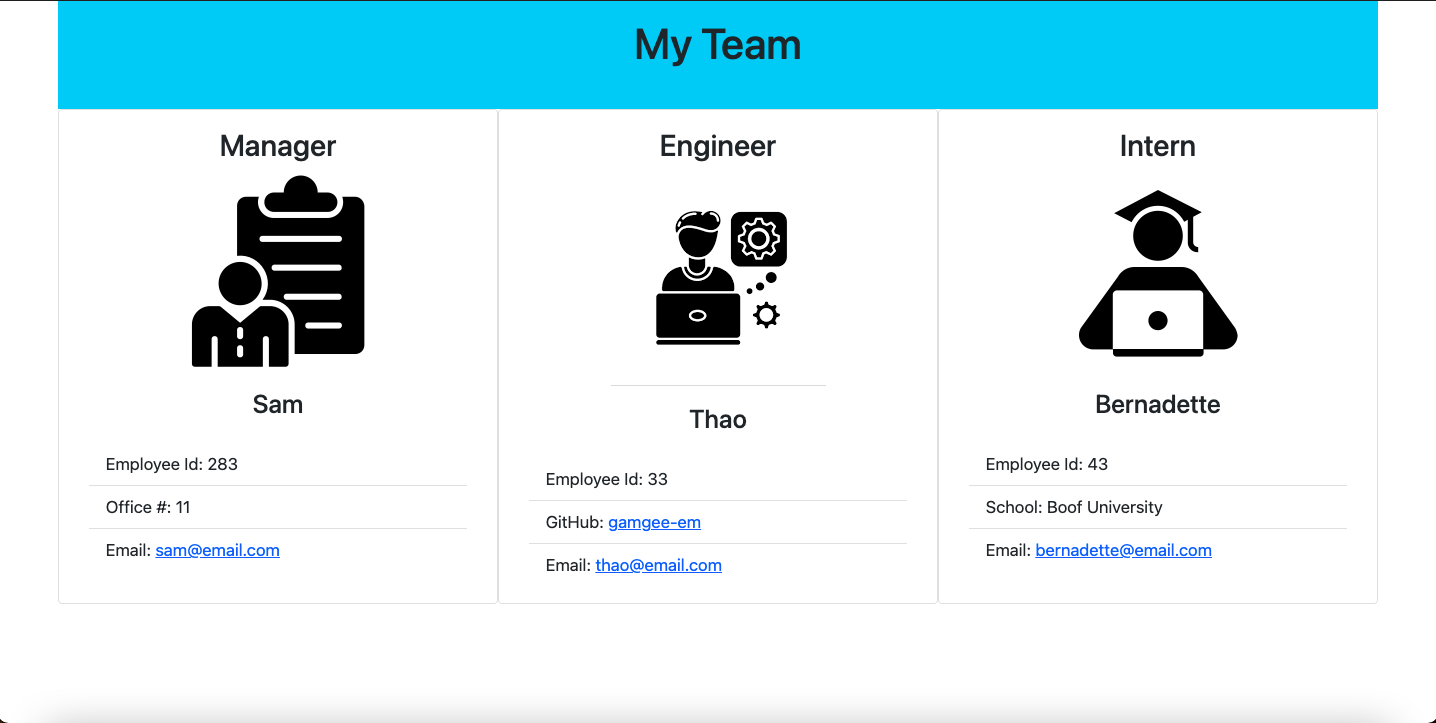
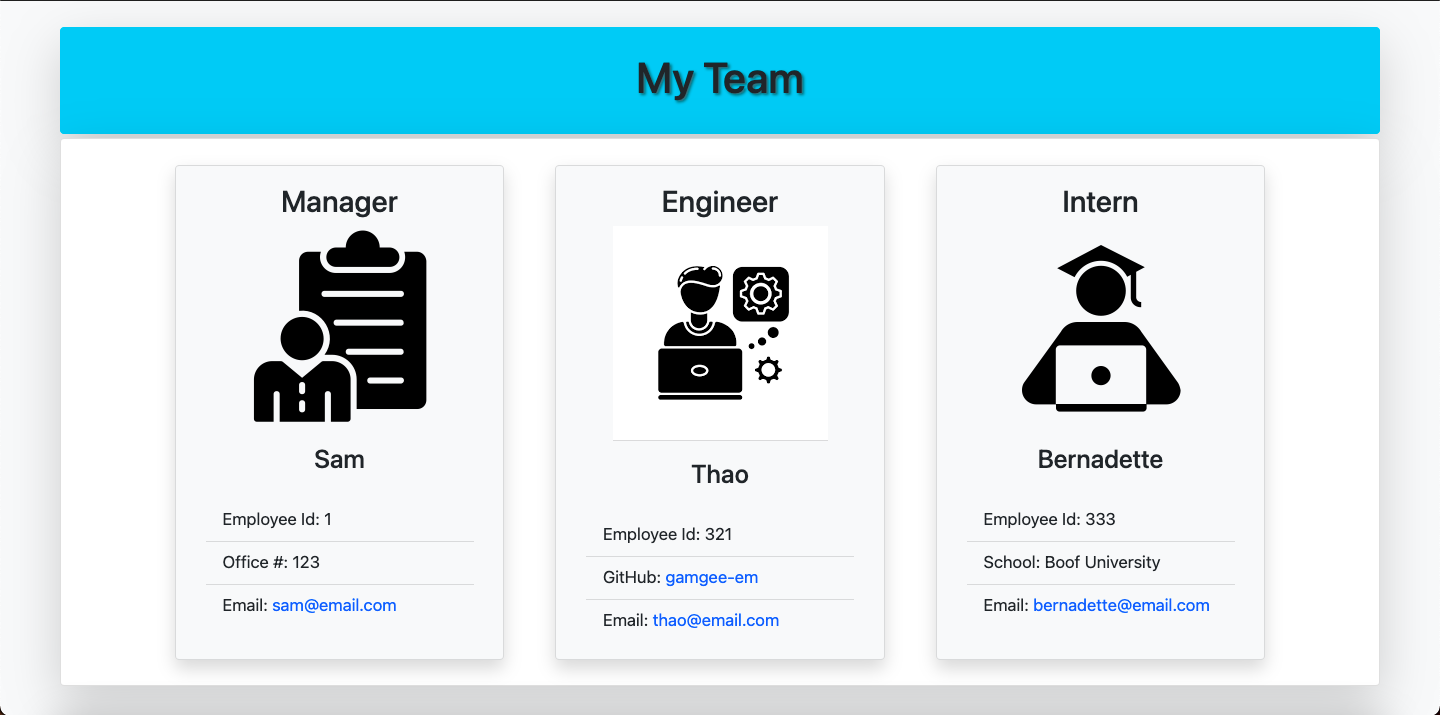
added updated ss

diff --git a/index.html b/index.html
@@ -9,12 +9,13 @@
         <link rel="stylesheet" type="text/css" href="https://stackpath.bootstrapcdn.com/bootstrap/5.0.0-alpha2/css/bootstrap.min.css" integrity="sha384-DhY6onE6f3zzKbjUPRc2hOzGAdEf4/Dz+WJwBvEYL/lkkIsI3ihufq9hk9K4lVoK" crossorigin="anonymous">
         <link rel="stylesheet" type="text/css" href="./style.css">
     </head>
-    <body>
-        <header class="container bg-info pt-3" style="height: 15vh;">
-            <h1 class="d-flex justify-content-center">My Team</h1>
+    <body class="m-4 bg-light">
+        <header class="container bg-info pt-4 rounded shadow-lg" style="height: 15vh;">
+            <h1 class="d-flex justify-content-center" style="text-shadow: 2px 2px 3px rgba(83, 78, 78, 0.766);">My Team</h1>
         </header>
-        <div class="container">
-            <div id='main' class="row"><div class="col-sm-4 card">
+        <div class="container card rounded shadow-lg mt-1">
+            <div id='main' class="row justify-content-center">
+                <div class="col-sm-3 card rounded m-4 shadow bg-light">
                     <div class="card-body">
                         <div class="text-center">
                             <!-- EMPLOYEE CARDS -->
@@ -25,30 +26,30 @@
                             <h4 id='manager-name' class="card-title text-center ">Sam</h5>
                         </div>
                         <ul class="list-group list-group-flush">
-                            <li id='manager-id' class="list-group-item">Employee Id: 1</li>
-                            <li id='manager-office' class="list-group-item">Office #: 123</li>
-                            <li id='manager-email' class="list-group-item">Email: <a href="mailto: samuel.sweigart@gmail.com" target='_blank'>sam@email.com</a></li>
+                            <li id='manager-id' class="list-group-item bg-light">Employee Id: 1</li>
+                            <li id='manager-office' class="list-group-item bg-light">Office #: 123</li>
+                            <li id='manager-email' class="list-group-item  bg-light">Email: <a href="mailto: samuel.sweigart@gmail.com" target='_blank' class="text-decoration-none">sam@email.com</a></li>
                         </ul>
                     </div>
                 </div>
-                <div class="col-sm-4 card">
+                <div class="col-sm-3 card m-4 shadow bg-light">
                     <div class="card-body">
                         <div class="text-center">
                             <!-- EMPLOYEE CARDS -->
                             <h3 id='engineer' class="text-center">Engineer</h3>
-                            <img src="./assets/images/engineer-icon.png" alt="Engineer icon representing type of team member">
+                            <img class='bg-light' src="./assets/images/engineer-icon.png" alt="Engineer icon representing type of team member">
                         </div>
                         <div class="card-body">
                             <h4 id='engineer-name' class="card-title text-center ">Thao</h5>
                         </div>
                         <ul class="list-group list-group-flush">
-                            <li id='engineer-id' class="list-group-item">Employee Id: 321 </li>
-                            <li id='engineer-github' class="list-group-item">GitHub: <a href='https://www.github.com/gamgee-em' target='_blank'>gamgee-em</a></li>
-                            <li id='engineer-email' class="list-group-item">Email: <a href="mailto: thao@email.com" target='_blank'>thao@email.com</a></li>
+                            <li id='engineer-id' class="list-group-item bg-light">Employee Id: 321 </li>
+                            <li id='engineer-github' class="list-group-item bg-light">GitHub: <a href='https://www.github.com/gamgee-em' target='_blank' class="text-decoration-none">gamgee-em</a></li>
+                            <li id='engineer-email' class="list-group-item bg-light">Email: <a href="mailto: thao@email.com" target='_blank' class="text-decoration-none">thao@email.com</a></li>
                         </ul>
                     </div>
                 </div>
-                <div class="col-sm-4 card">
+                <div class="col-sm-3 card m-4 shadow bg-light">
                     <div class="card-body">
                         <div class="text-center">
                             <!-- EMPLOYEE CARDS -->
@@ -56,12 +57,12 @@
                             <img src="./assets/images/intern-icon.png" alt="Intern icon representing type of team member">
                         </div>
                         <div class="card-body">
-                            <h4 id='intern-name' class="card-title text-center ">Bernadette</h5>
+                            <h4 id='intern-name' class="card-title text-center">Bernadette</h5>
                         </div>
-                        <ul class="list-group list-group-flush">
-                            <li id='intern-id' class="list-group-item">Employee Id: 333</li>
-                            <li id='intern-school' class="list-group-item">School: Boof University</li>
-                            <li id='intern-email' class="list-group-item">Email: <a href="mailto: bernadette@email.com target='_blank'">bernadette@email.com</a></li>
+                        <ul class="list-group list-group-flush list-unstyled">
+                            <li id='intern-id' class="list-group-item bg-light">Employee Id: 333</li>
+                            <li id='intern-school' class="list-group-item bg-light">School: Boof University</li>
+                            <li id='intern-email' class="list-group-item bg-light">Email: <a href="mailto: bernadette@email.com" target='_blank' class="text-decoration-none">bernadette@email.com</a></li>
                         </ul>
                     </div>
                 </div>
